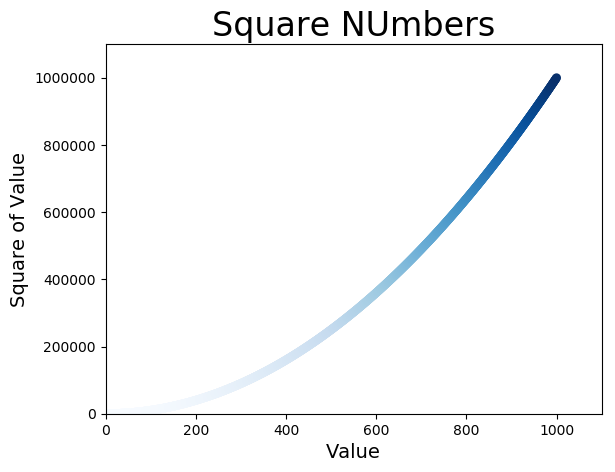
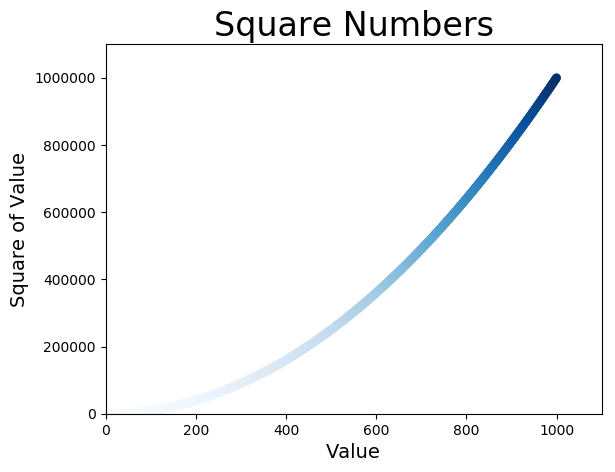
Project data visualization phase 1.

Changed region(s): [[0.3398, 0.0297, 0.8033, 0.089]]

diff --git a/data_visualization/random_walk.py b/data_visualization/random_walk.py
@@ -1,0 +1,37 @@
+from random import choice
+
+class RandomWalk():
+    """A class to generate random walks."""
+
+    def __init__(self, num_points=5000):
+        """Initialize attributes of a walk."""
+        self.num_points = num_points
+
+        # All walks start at (0, 0).
+        self.x_values = [0]
+        self.y_values = [0]
+    
+    def fill_walk(self):
+        """Calculate all the points in the walk."""
+
+        # Keep taking steps until the walk reaches the desired length.
+        while len(self.x_values) < self.num_points:
+            # Decide which direction to go and how far to go in that direction.
+            x_direction = choice([1, -1])
+            x_distance = choice([0, 1, 2, 3, 4])
+            x_step = x_direction * x_distance
+
+            y_direction = choice([1, -1])
+            y_distance = choice([0, 1, 2, 3, 4])
+            y_step = y_direction * y_distance
+
+            # Reject moves that go nowhere.
+            if x_step == 0 and y_step ==0:
+                continue
+
+            # Calculate the next x and y values.
+            next_x = self.x_values[-1] + x_step
+            next_y = self.y_values[-1] + y_step
+
+            self.x_values.append(next_x)
+            self.y_values.append(next_y)

diff --git a/data_visualization/rw_visual.py b/data_visualization/rw_visual.py
@@ -1,0 +1,33 @@
+import matplotlib.pyplot as plt
+
+from random_walk import RandomWalk
+
+# Keep making new walks, as long as the program is active.
+while True:
+    # Make a random walk, and plot the points.
+    rw = RandomWalk(5000)
+    rw.fill_walk()
+
+    # Set the size of the plotting window.
+    plt.figure(figsize=(10, 6))
+
+    # Plot the points, and show the plot.
+    point_numbers = list(range(rw.num_points))
+    plt.scatter(rw.x_values, rw.y_values, c=point_numbers, cmap=plt.cm.Reds,
+       edgecolor='none', s=20)
+
+    plt.plot(rw.x_values, rw.y_values, linewidth=1)
+    # Emphasize the first and last points.
+    plt.scatter(0, 0, c='green', edgecolors='none', s=100)
+    plt.scatter(rw.x_values[-1], rw.y_values[-1], c='red', edgecolors='none',
+        s=100)
+
+    # Remove the axes.
+    plt.axes().get_xaxis().set_visible(False)
+    plt.axes().get_yaxis().set_visible(False)
+
+    plt.show()
+
+    keep_running = input("Make another walk? (y/n): ")
+    if keep_running == 'n':
+        break

diff --git a/data_visualization/scatter_squares.py b/data_visualization/scatter_squares.py
@@ -6,7 +6,7 @@ plt.scatter(x_values, y_values, c=y_values, cmap=plt.cm.Blues,
     edgecolors='none', s=40)
 
 # Set chart title and label axes.
-plt.title("Square NUmbers", fontsize=24)
+plt.title("Square Numbers", fontsize=24)
 plt.xlabel("Value", fontsize=14)
 plt.ylabel("Square of Value", fontsize=14)
 
